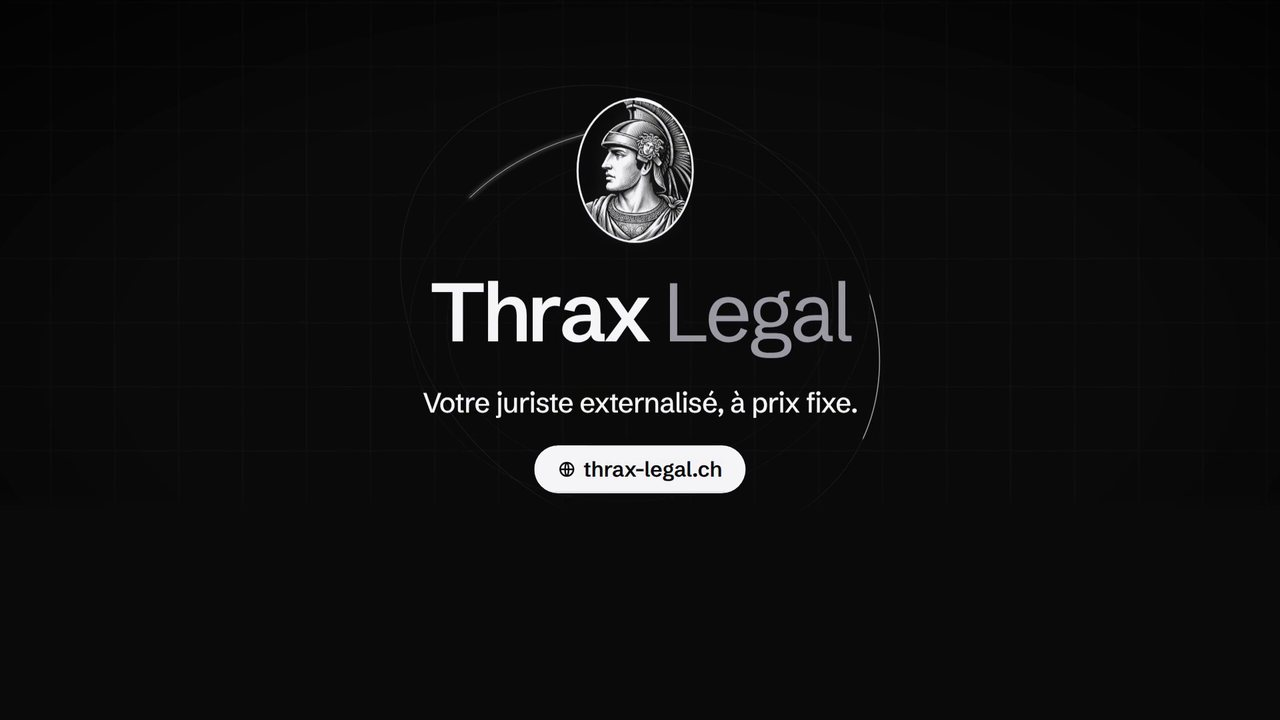
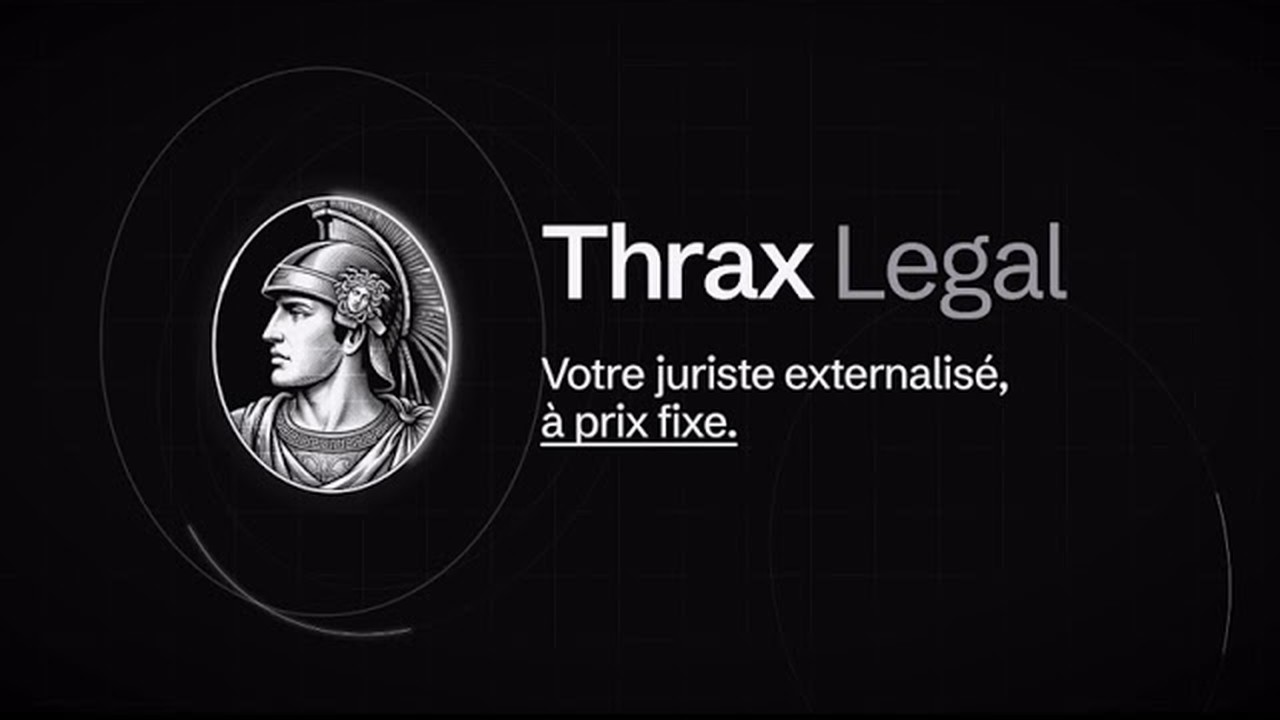
Replace landing page video with new YouTube video (2A64ZshrWSQ) and poster
Claude-Session: https://claude.ai/code/session_01KpDw9AxaNKEm24Rv3GPyWP

diff --git a/src/app/[locale]/page.tsx b/src/app/[locale]/page.tsx
@@ -899,7 +899,7 @@ export default async function Home({
               </Reveal>
               <Reveal delay={120} className="mx-auto mt-10 max-w-4xl">
                 <VideoEmbed
-                  videoId="u99gV2Xwcqo"
+                  videoId="2A64ZshrWSQ"
                   poster="/media/video/presentation-poster.jpg"
                   title={t.videoHeading}
                   playLabel={t.videoPlayLabel}
